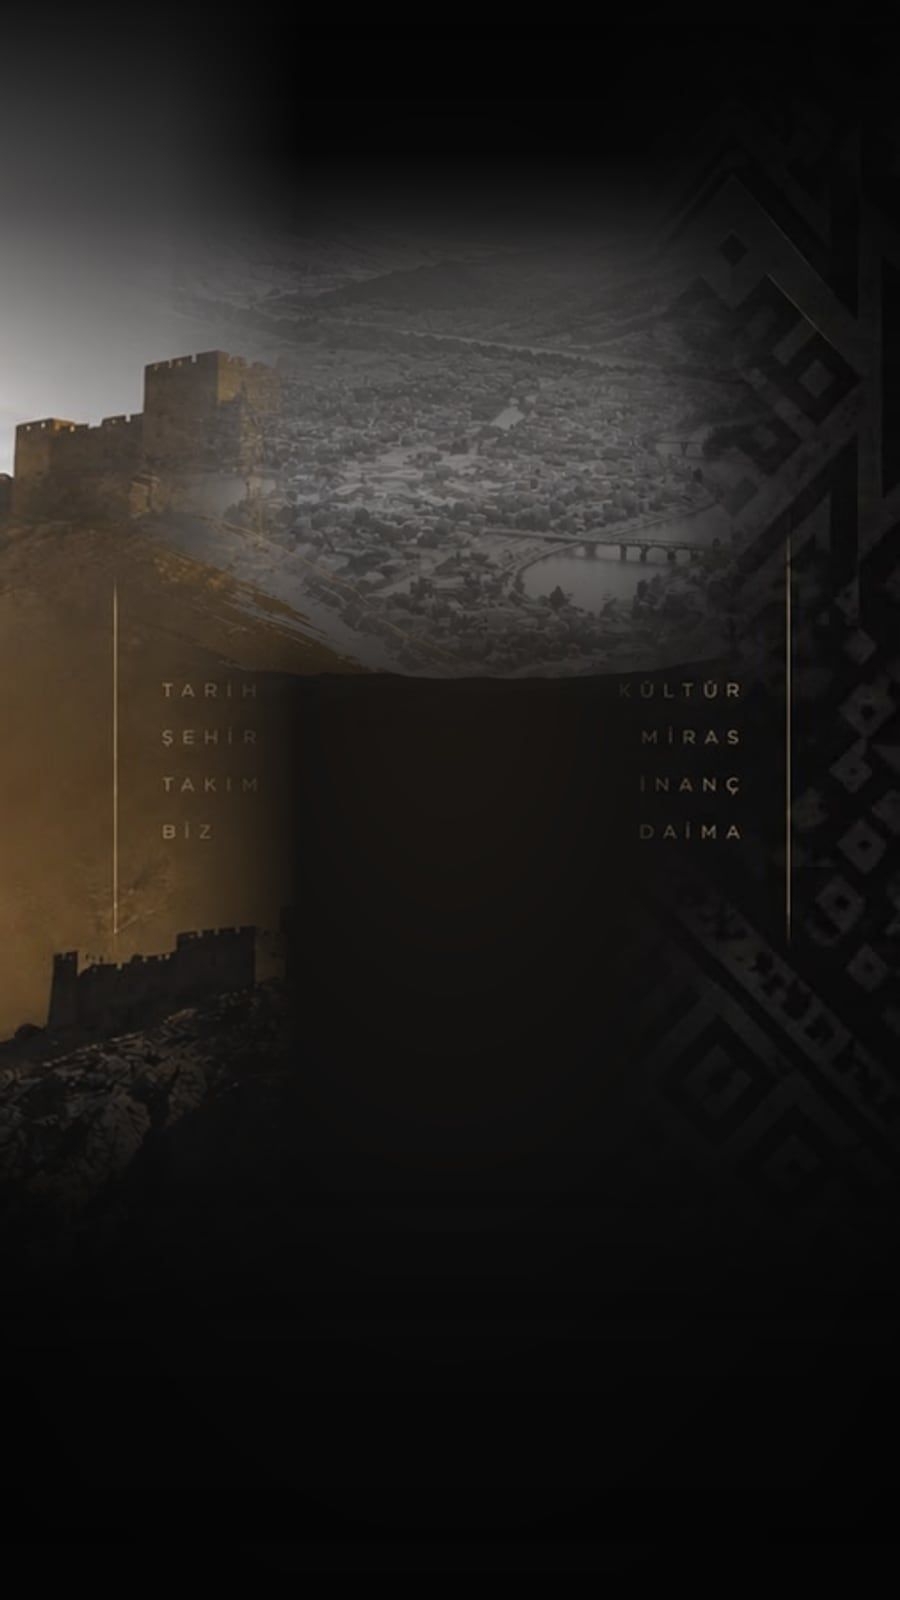
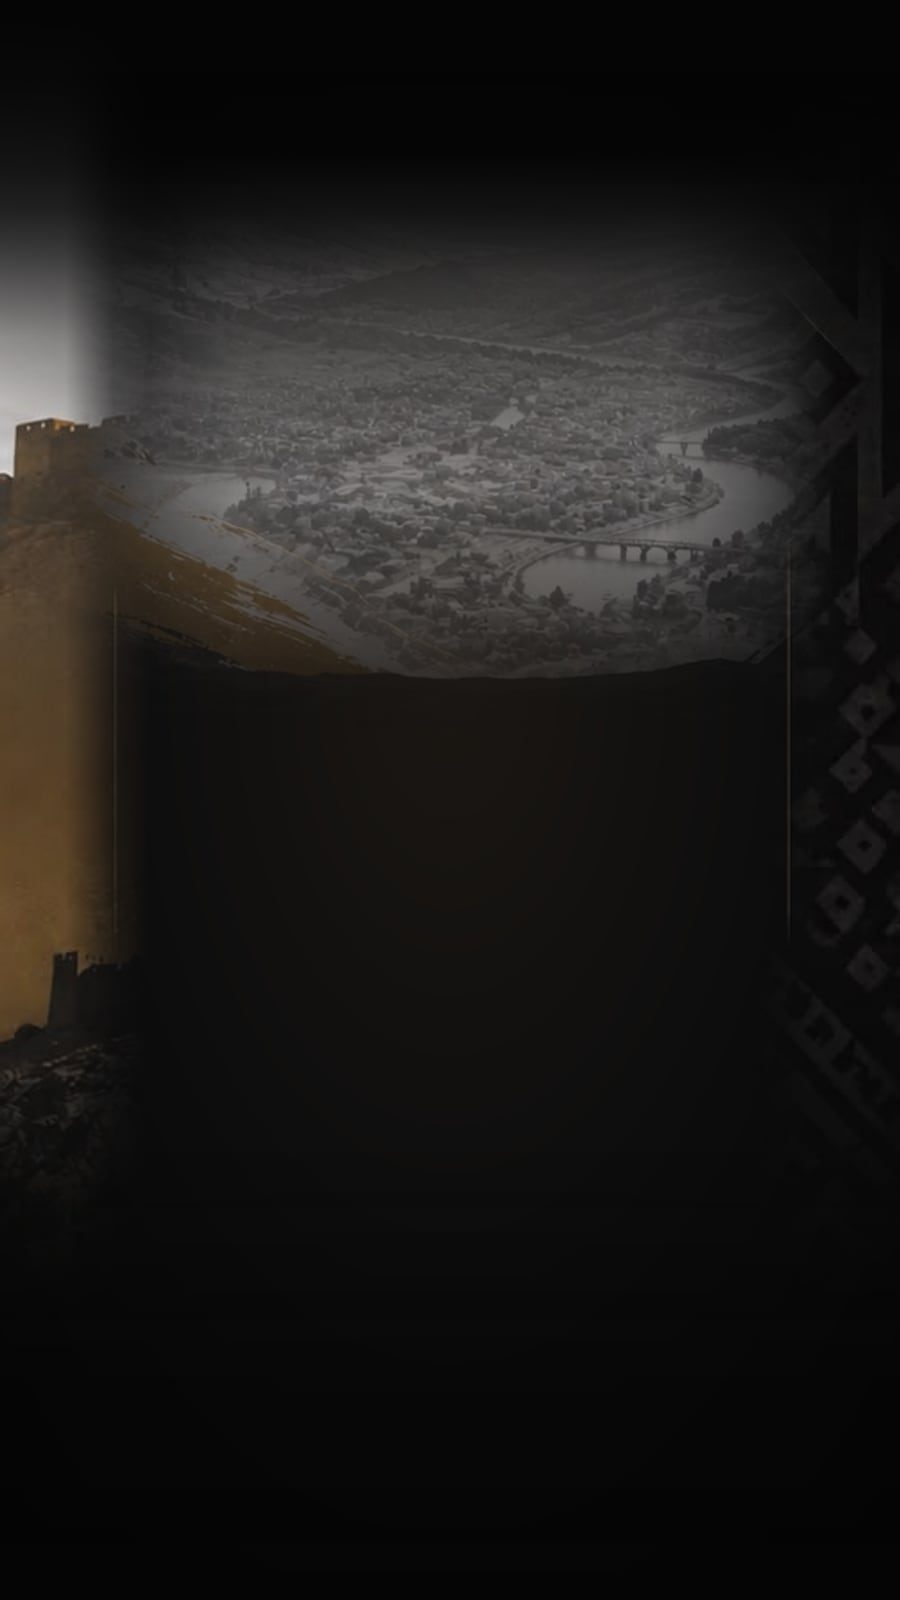
Clear the portrait plate of the copy the kit was standing on (#13)
The backdrop carries TARİH ŞEHİR TAKIM BİZ down one edge and KÜLTÜR
MİRAS İNANÇ DAİMA down the other. On a phone the kit stands directly over
them: sleeves through the middle of both columns, and the K of KÜLTÜR cut
off by the column's own fade. That is the overlap. The columns now fade
out well before their inner edge, and their heads fade too — the sky was
reading as a light leak against the obsidian.

The type over the plate was set in the dim greys the dark pages use, and
over artwork it did not read. The wordmark, its tagline and the kit's name
and kind are brighter now and carry a shadow.

Two spacing faults the earlier checks missed, because they measured only
the resting state and only some pairs: the safe band's foot sat at 0.792
of the plate, inside the painted kit names, so a hovered outer kit dipped
into them at every desktop width; and in portrait the kind line landed on
the carousel dots on a small phone and on a tablet.

Verified: 351 assertions over five desktop widths and four portrait sizes,
every pair of title, kit, kit name, kind, dots and shop button, at rest
and with each kit selected.

Claude-Session: https://claude.ai/code/session_01WuRxV2SRMdmhgB3YCmHoiP

diff --git a/bayburt-store/components/hero/KitStage3D.tsx b/bayburt-store/components/hero/KitStage3D.tsx
@@ -42,9 +42,9 @@ const KIT_ASPECT = 0.91
  */
 const PLATE_ASPECT = 1600 / 901
 const PLATE_KIT = [
-  { x: 0.276, height: 0.512 },
-  { x: 0.516, height: 0.472 },
-  { x: 0.764, height: 0.515 },
+  { x: 0.276, height: 0.494 },
+  { x: 0.516, height: 0.455 },
+  { x: 0.764, height: 0.497 },
 ]
 
 /**
@@ -54,7 +54,7 @@ const PLATE_KIT = [
  * chosen so that a hovered kit still lands inside it.
  */
 const PLATE_SAFE_TOP = 0.245
-const PLATE_SAFE_BOTTOM = 0.792
+const PLATE_SAFE_BOTTOM = 0.773
 
 /**
  * Hover lift, kept deliberately small. The kit also steps toward the camera,
@@ -71,8 +71,8 @@ const HOVER_STEP = 0.18
  * off-centre and the kit is lifted to match — which on a small phone is the
  * difference between a readable page and a kit sitting on its own name.
  */
-const PORTRAIT_GUARD_TOP = 120
-const PORTRAIT_GUARD_FOOT = 206
+const PORTRAIT_GUARD_TOP = 138
+const PORTRAIT_GUARD_FOOT = 216
 const CAMERA_Z = 6
 
 /** How much bigger a hovered kit reads: the lift, plus the step's perspective. */
@@ -521,13 +521,13 @@ export function KitStage3D({ products, onUnsupported }: KitStage3DProps) {
           >
             <p
               className={cn(
-                'font-display text-xl uppercase tracking-wider2 transition-colors duration-500 sm:text-2xl',
+                'font-display text-xl uppercase tracking-wider2 transition-colors duration-500 [text-shadow:0_2px_18px_rgba(5,5,5,0.95)] sm:text-2xl',
                 activeIndex === index ? 'text-gold-300' : 'text-white',
               )}
             >
               {product.displayName}
             </p>
-            <p className="mt-2 font-sans text-[10px] uppercase tracking-wider2 text-ash">
+            <p className="mt-2 font-sans text-[10px] uppercase tracking-wider2 text-white/70 [text-shadow:0_1px_12px_rgba(5,5,5,0.95)]">
               {product.kind}
             </p>
 
@@ -536,7 +536,7 @@ export function KitStage3D({ products, onUnsupported }: KitStage3DProps) {
       </div>
 
       {isPortrait ? (
-        <div className="absolute inset-x-0 bottom-28 flex justify-center">
+        <div className="absolute inset-x-0 bottom-[86px] flex justify-center sm:bottom-[104px]">
           {products.map((product, index) => (
             <button
               key={product.slug}

diff --git a/bayburt-store/app/page.tsx b/bayburt-store/app/page.tsx
@@ -75,7 +75,7 @@ export default function HomePage() {
 
           {/* Anchored to the plate, not to the window: on desktop it sits in
               the strip under the painted kit names. */}
-          <div className="absolute inset-x-0 bottom-9 z-10 flex justify-center sm:bottom-11 lg:bottom-[3.4%]">
+          <div className="absolute inset-x-0 bottom-7 z-10 flex justify-center sm:bottom-9 lg:bottom-[3.4%]">
             <Link
               href="/koleksiyon"
               className="group inline-flex items-center gap-3.5 border border-white/25 bg-obsidian/40 px-9 py-4 font-sans text-[11px] uppercase tracking-luxe text-white backdrop-blur-sm transition-colors duration-500 ease-luxe hover:border-gold-500 hover:text-gold-200 lg:py-3"
@@ -88,16 +88,16 @@ export default function HomePage() {
       </div>
 
       <div className="pointer-events-none absolute inset-x-0 top-[calc(var(--header-height)+1.25rem)] z-10 text-center lg:hidden">
-        <p className="font-sans text-[10px] uppercase tracking-luxe text-smoke sm:text-[11px]">
+        <p className="font-sans text-[10px] uppercase tracking-luxe text-white/85 [text-shadow:0_1px_14px_rgba(5,5,5,0.95)] sm:text-[11px]">
           Bayburtspor
         </p>
-        <h1 className="mt-2.5 font-display text-[clamp(2.5rem,11vw,4rem)] font-semibold uppercase leading-[0.94] tracking-[0.07em]">
+        <h1 className="mt-2.5 font-display text-[clamp(2.5rem,11vw,4rem)] font-semibold uppercase leading-[0.94] tracking-[0.07em] [text-shadow:0_2px_22px_rgba(5,5,5,0.95)]">
           <span className="gold-text">Miras</span>
-          <span className="mt-2 block font-sans text-[clamp(0.6rem,2.4vw,0.7rem)] font-normal tracking-luxe text-smoke">
+          <span className="mt-2 block font-sans text-[clamp(0.6rem,2.4vw,0.7rem)] font-normal tracking-luxe text-white/85">
             Koleksiyonu
           </span>
         </h1>
-        <p className="mt-4 font-sans text-[9px] uppercase tracking-luxe text-ash sm:text-[10px]">
+        <p className="mt-4 font-sans text-[9px] uppercase tracking-luxe text-white/70 [text-shadow:0_1px_14px_rgba(5,5,5,0.95)] sm:text-[10px]">
           {siteConfig.tagline}
         </p>
       </div>
